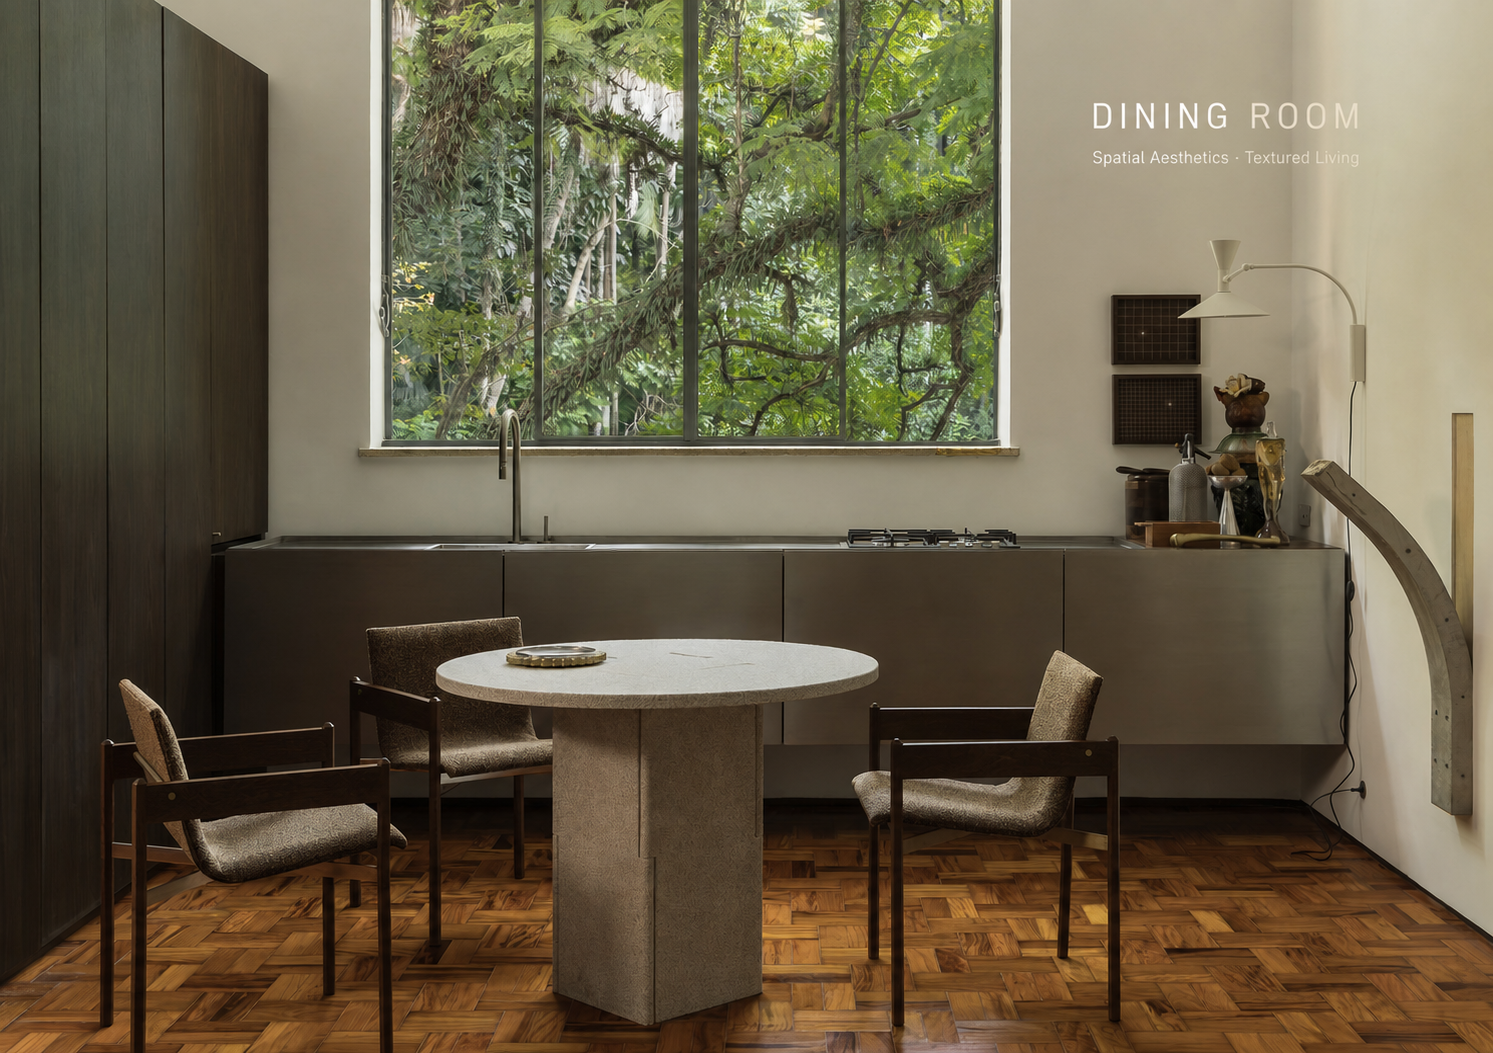
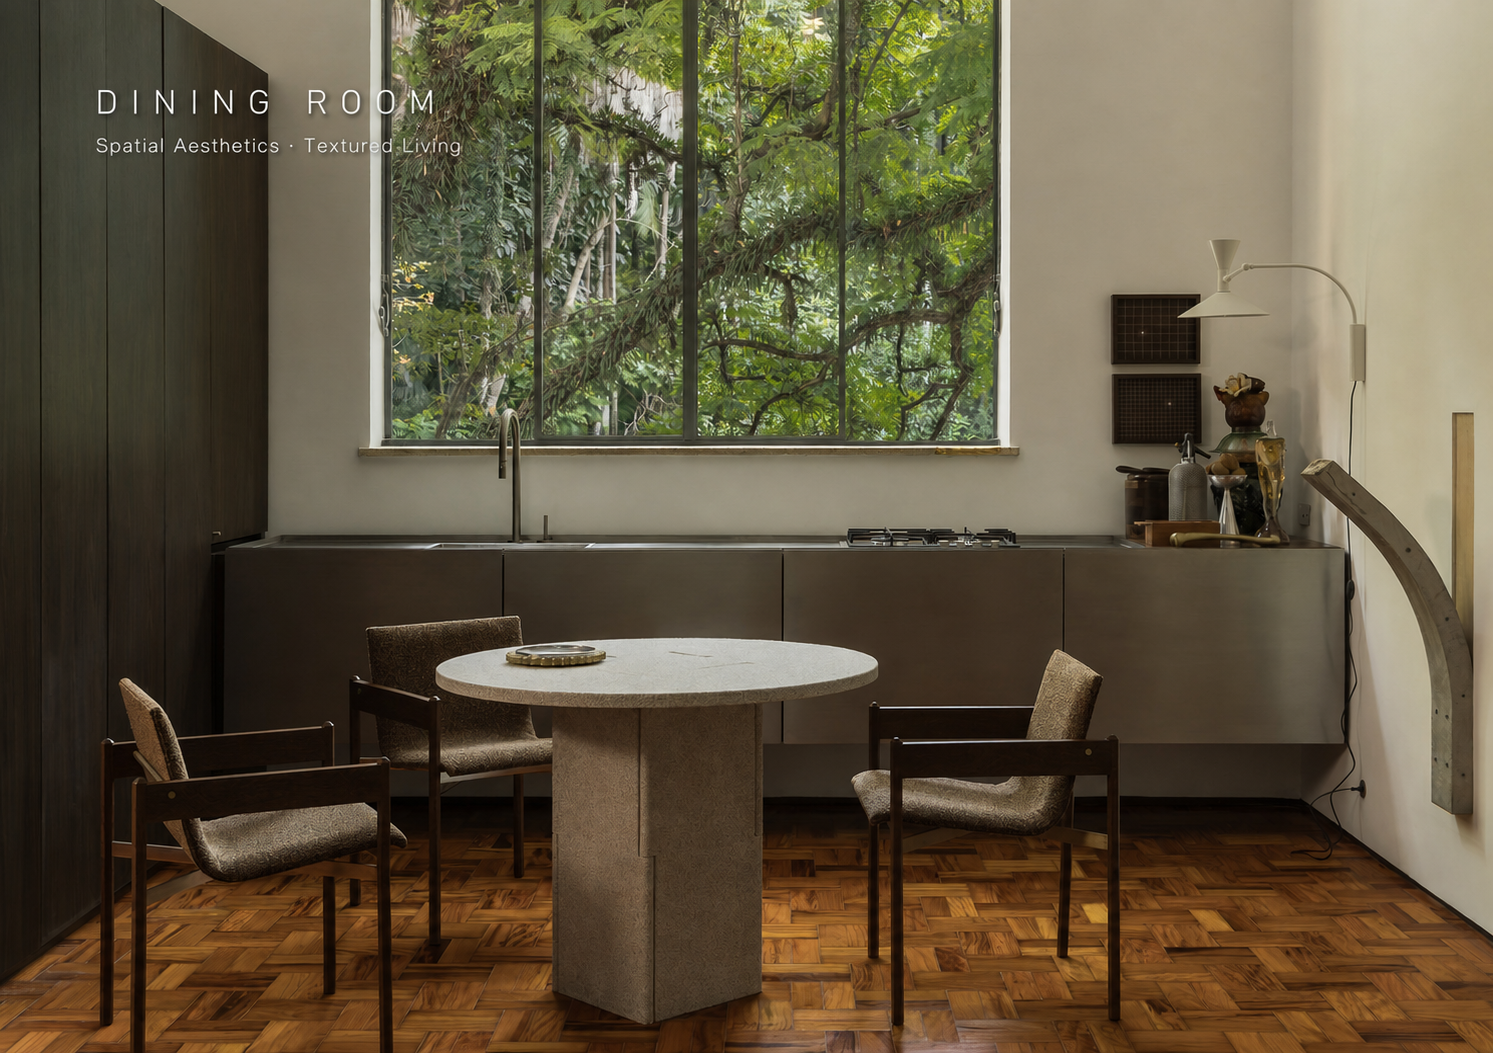
Align carousel typography and add bathroom artwork

diff --git a/app/components/HomeCarousel.tsx b/app/components/HomeCarousel.tsx
@@ -7,7 +7,7 @@ import { originalMedia } from "../lib/original-media";
 const slides = [
   {
     image: originalMedia.heroes[0],
-    title: "BATH ROOM SERIES"
+    title: "BATHROOM"
   },
   {
     image: originalMedia.heroes[1],
@@ -42,7 +42,7 @@ export function HomeCarousel() {
   const slide = slides[active];
   return (
     <section
-      className={`original-home-carousel${active === 1 ? " is-living-active" : active === 2 ? " is-dining-active" : active === 3 ? " is-kitchen-active" : ""}`}
+      className={`original-home-carousel${active === 0 ? " is-bathroom-active" : active === 1 ? " is-living-active" : active === 2 ? " is-dining-active" : " is-kitchen-active"}`}
       aria-label="Huangjia product collections"
       onTouchStart={(event) => setTouchStart(event.touches[0].clientX)}
       onTouchEnd={(event) => {
@@ -54,7 +54,7 @@ export function HomeCarousel() {
     >
       <img
         key={slide.image}
-        className={active === 1 ? "is-living-slide" : active === 2 ? "is-dining-slide" : active === 3 ? "is-kitchen-slide" : undefined}
+        className={active === 0 ? "is-bathroom-slide" : active === 1 ? "is-living-slide" : active === 2 ? "is-dining-slide" : "is-kitchen-slide"}
         src={slide.image}
         alt={slide.title}
       />

diff --git a/app/catalog.css b/app/catalog.css
@@ -378,9 +378,13 @@
 .original-home-carousel.is-living-active{
   background:#d8cbb7;
 }
+.original-home-carousel.is-bathroom-active{
+  background:#d7d6d0;
+}
 .original-home-carousel.is-kitchen-active{
   background:#bca98a;
 }
+.original-home-carousel>img.is-bathroom-slide,
 .original-home-carousel>img.is-dining-slide,
 .original-home-carousel>img.is-living-slide,
 .original-home-carousel>img.is-kitchen-slide{

diff --git a/app/lib/original-media.ts b/app/lib/original-media.ts
@@ -4,7 +4,7 @@ export const originalMedia = {
   logo: `${upload}/172137324403473800110.png`,
   productBanner: `${upload}/172301541689848900100.jpg`,
   heroes: [
-    `${upload}/172319519362627200100.jpg`,
+    "/images/hero-bathroom-editorial.png",
     "/images/hero-living-editorial-v2.png",
     "/images/hero-dining-editorial.png",
     "/images/hero-kitchen-editorial-v2.png"
